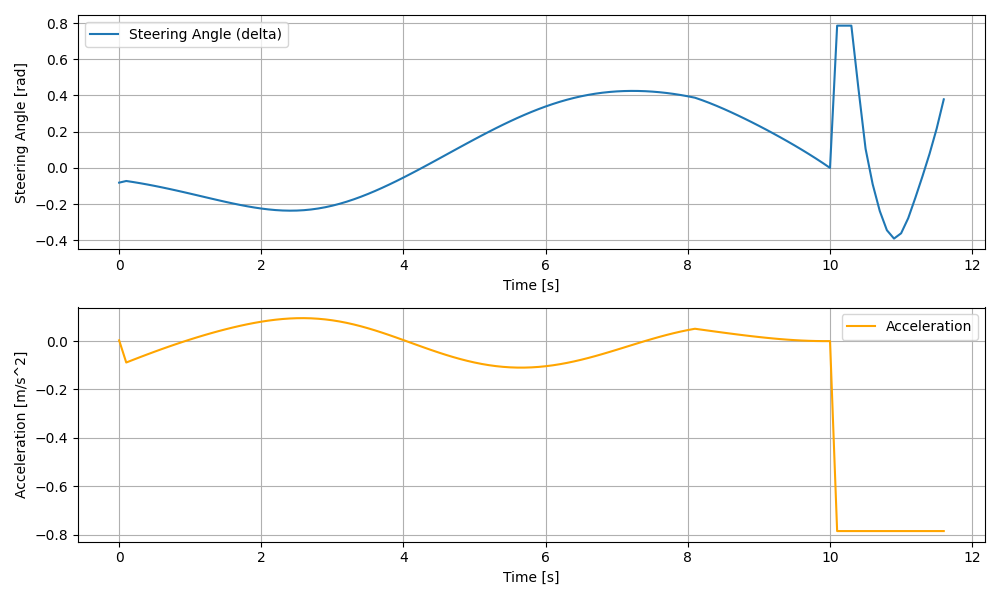
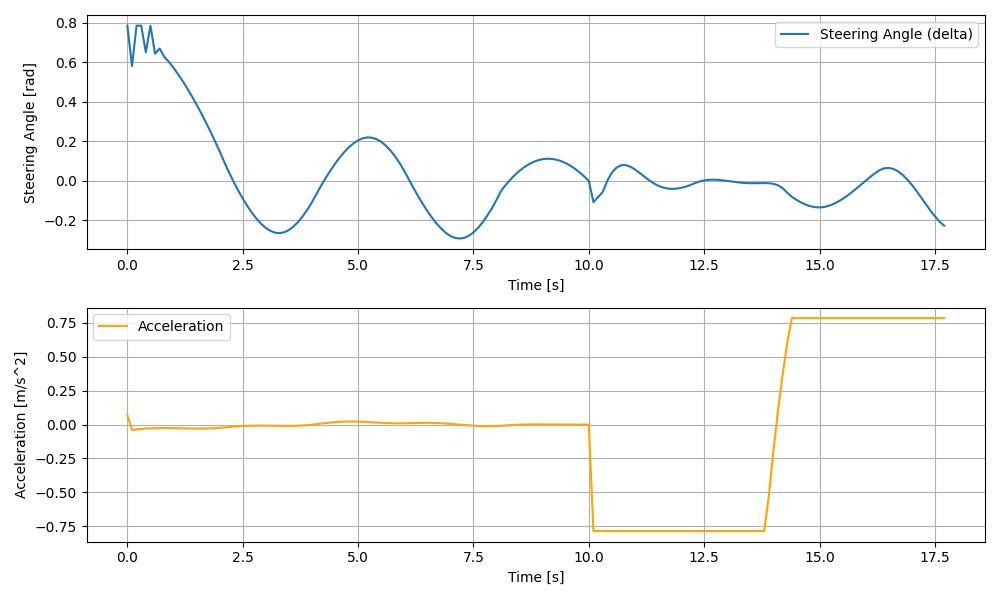
update

diff --git a/MPC/MPC_planner.py b/MPC/MPC_planner.py
@@ -10,10 +10,27 @@ T = 100   # total number of simulation steps
 
 # Define vehicle parameters
 L = 2.0   # wheelbase
+v0 = 1.0  # constant velocity
 
-# Define reference trajectory (circle for example)
-t = np.linspace(0, T*dt, T+1)
-X_ref = np.vstack((t, np.sin(np.pi/2 + 0.5*t), 0.1 * t))
+# Define steering angle limits
+delta_max = np.pi/4
+delta_min = -np.pi/4
+
+# Generate reference trajectory
+X_ref = np.zeros((4, T+1))
+delta_ref = np.zeros(T+1)
+steering_duration = int(2.0 / dt)
+for i in range(T+1):
+    if (i // steering_duration) % 2 == 0:
+        delta_ref[i] = delta_max
+    else:
+        delta_ref[i] = delta_min
+
+for i in range(1, T+1):
+    X_ref[0, i] = X_ref[0, i-1] + dt * v0 * np.cos(X_ref[2, i-1])
+    X_ref[1, i] = X_ref[1, i-1] + dt * v0 * np.sin(X_ref[2, i-1])
+    X_ref[2, i] = X_ref[2, i-1] + dt * v0 / L * np.tan(delta_ref[i-1])
+    X_ref[3, i] = v0  # Constant velocity
 
 # Define CasADi variables
 X = ca.SX.sym('X', 4, N+1)  # state variables [X, Y, theta, v]
@@ -36,7 +53,7 @@ opts = {
 solver = ca.nlpsol('solver', 'ipopt', nlp, opts)
 
 # Initial state
-X_0_val = np.array([X_ref[0, 0], X_ref[1, 0], X_ref[2, 0], 1.0])
+X_0_val = np.array([X_ref[0, 0], X_ref[1, 0], X_ref[2, 0], v0])
 
 # Storage for simulation data
 X_sim = [X_0_val]
@@ -55,7 +72,7 @@ ax.plot(X_ref[0, :], X_ref[1, :], 'r--', label='Reference Trajectory')
 actual_line, = ax.plot([], [], 'b-', label='Actual Trajectory')
 prediction_line, = ax.plot([], [], 'g-', label='Predicted Trajectory')
 ax.set_xlim(0, T*dt)
-ax.set_ylim(-1.5, 1.5)
+ax.set_ylim(0, 5)
 ax.set_xlabel('X')
 ax.set_ylabel('Y')
 ax.legend()
@@ -74,7 +91,7 @@ def update(frame):
     constraints = []
 
     for k in range(current_N):
-        cost += ca.sumsqr(X[:3, k] - X_ref[:, frame + k]) + ca.sumsqr(u[:, k])
+        cost += ca.sumsqr(X[:3, k] - X_ref[:3, frame + k]) + ca.sumsqr(u[:, k])
         next_state = X[:, k] + dt * ca.vertcat(
             X[3, k] * ca.cos(X[2, k]),
             X[3, k] * ca.sin(X[2, k]),
@@ -159,5 +176,5 @@ axs[1].legend()
 axs[1].grid()
 
 plt.tight_layout()
-plt.savefig('/mnt/data/control_values_plot.png')  # Save the plot in the specified directory
+plt.savefig('control_values_plot.png')  # Save the plot in the specified directory
 plt.show()
